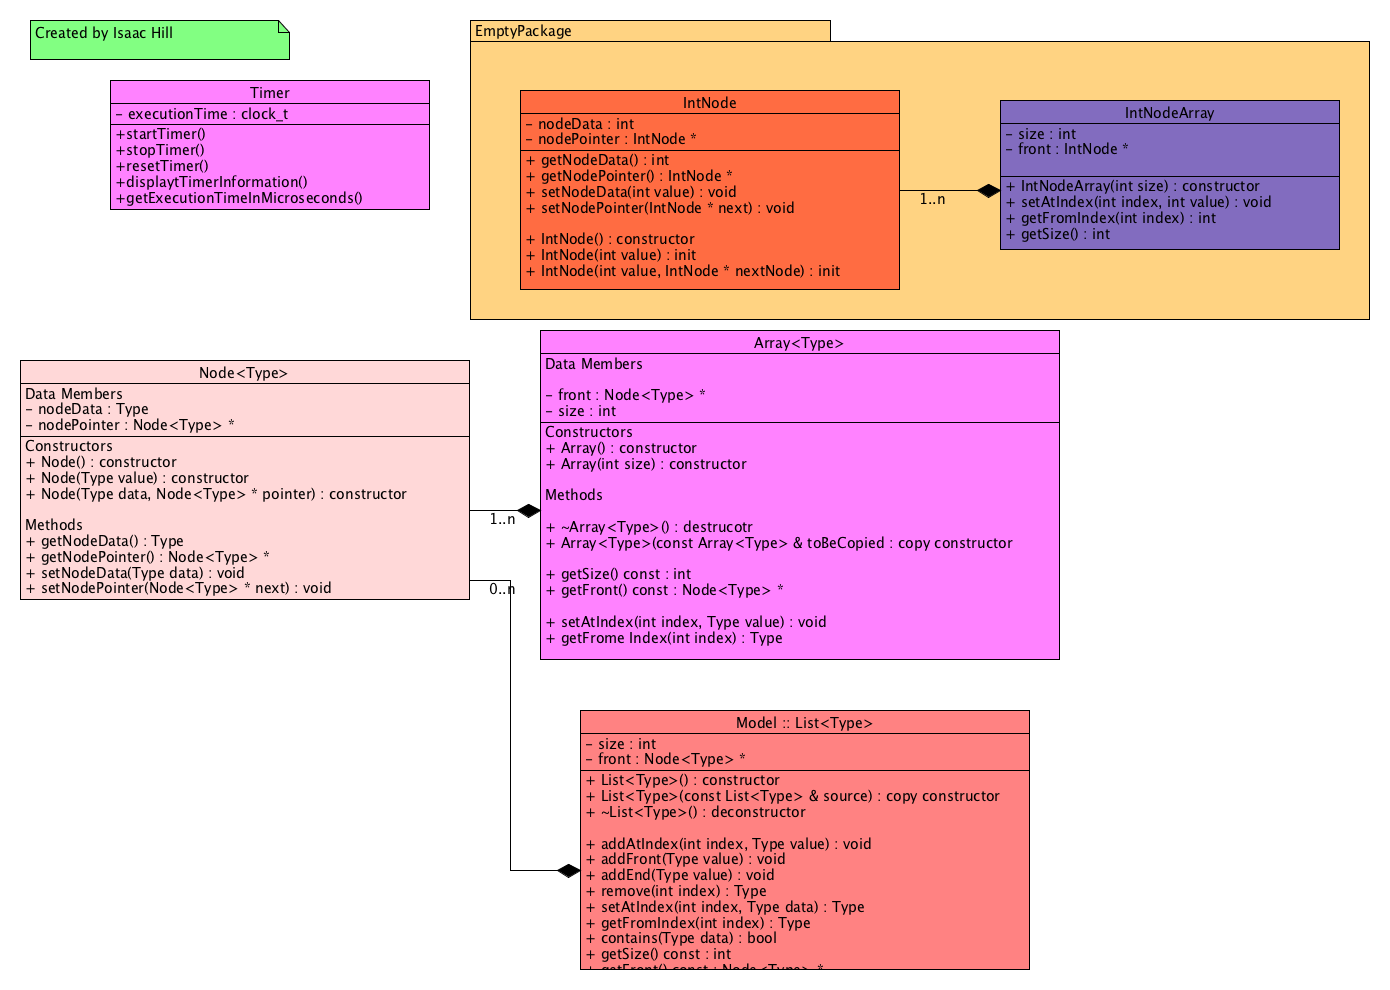
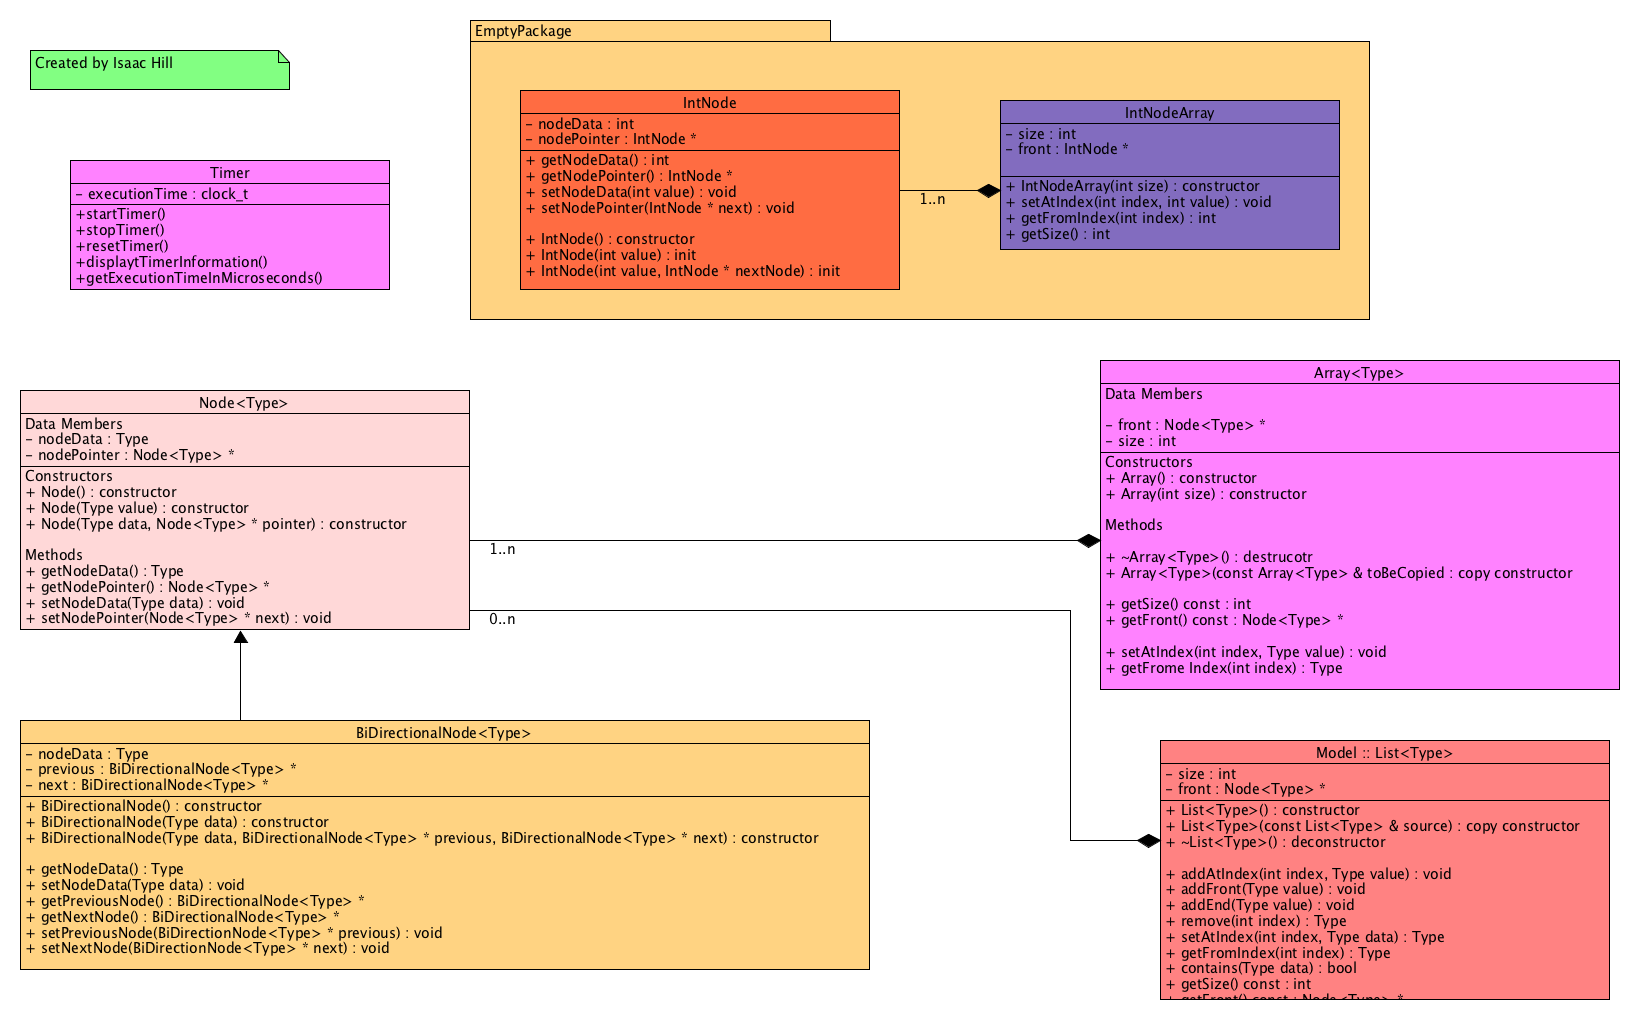
Added BiDirectionalNode file to project and started framework.

diff --git a/MegaDataProject/Model/BiDirectionalNode.hpp b/MegaDataProject/Model/BiDirectionalNode.hpp
@@ -1,0 +1,37 @@
+//
+//  BiDirectionalNode.hpp
+//  MegaDataProject
+//
+//  Created by Hill, Isaac on 2/27/17.
+//  Copyright © 2017 Hill, Isaac. All rights reserved.
+//
+
+#ifndef BiDirectionalNode_h
+#define BiDirectionalNode_h
+
+template <class Type>
+class BiDirectionalNode : public Node<Type>
+{
+private:
+    BiDirectionalNode<Type> * previous;
+    BiDirecitonalNode<Type> * next;
+    Type data;
+public:
+    BiDirectionalNode();
+    BiDirectionalNode(Type data);
+    BiDirectionalNode(Type data, BiDirectionalNode<Type> * previous, BiDirectionalNode<Type> * next);
+    
+}
+
+template <class Type>
+BiDirectionalNode<Type> :: BiDirectionalNode() : Node()
+{
+    
+}
+
+template <class Type>
+BiDirectionalNode<Type> :: BiDirectionalNode(Type data) : Node<Type>(data)
+{
+    
+}
+#endif /* BiDirectionalNode_h */
